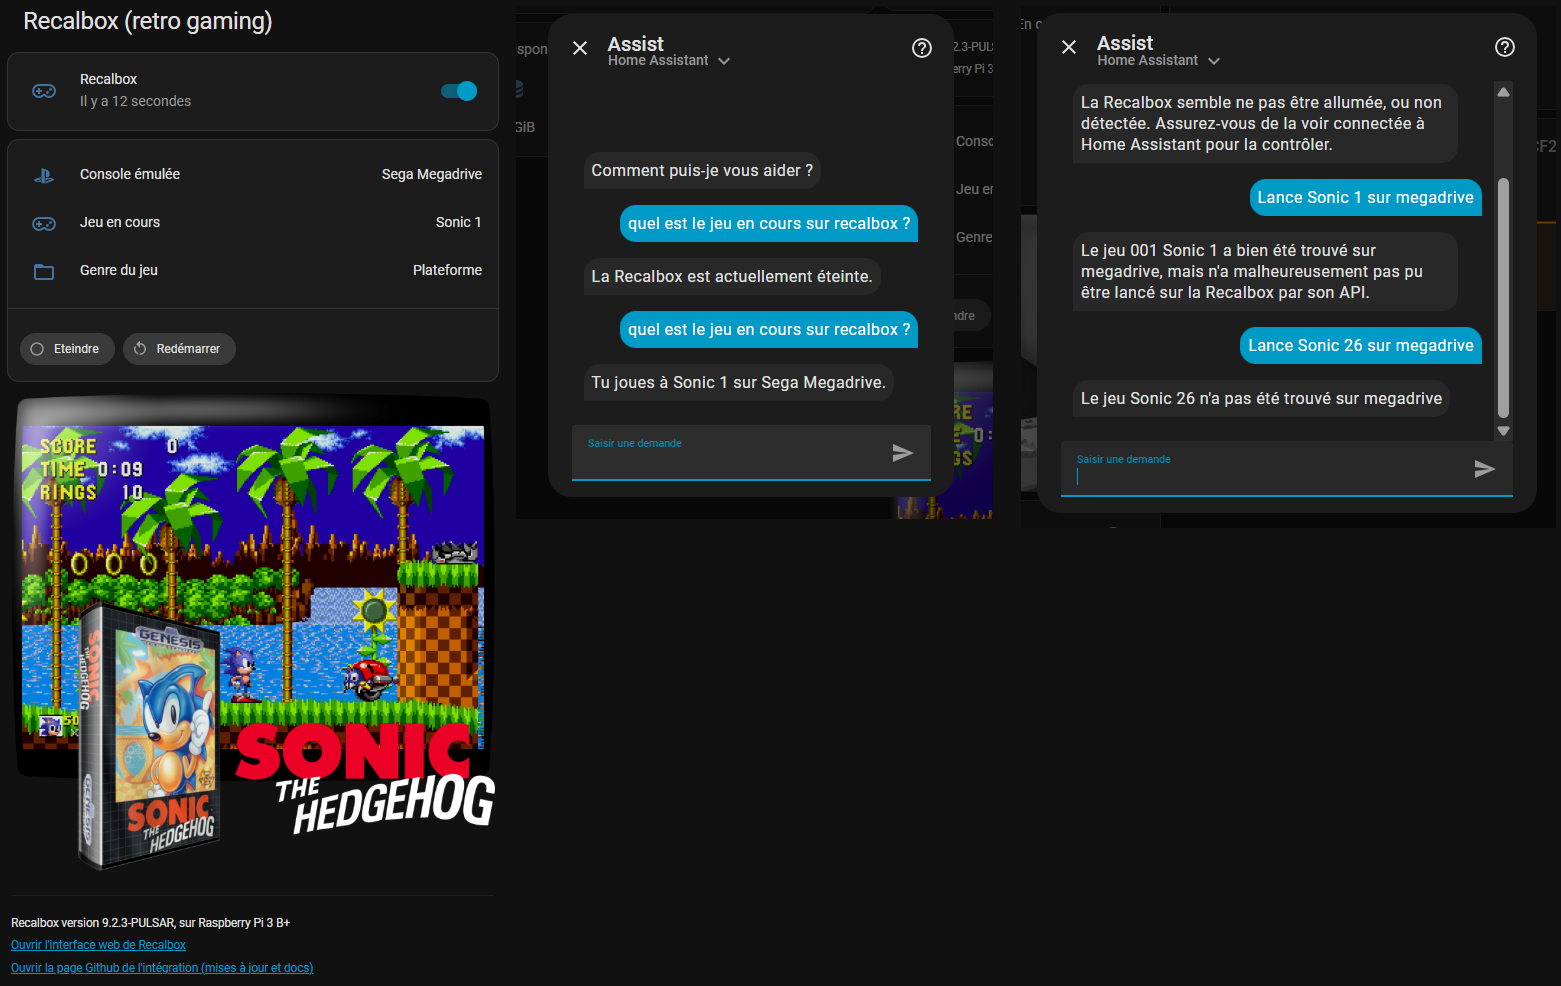
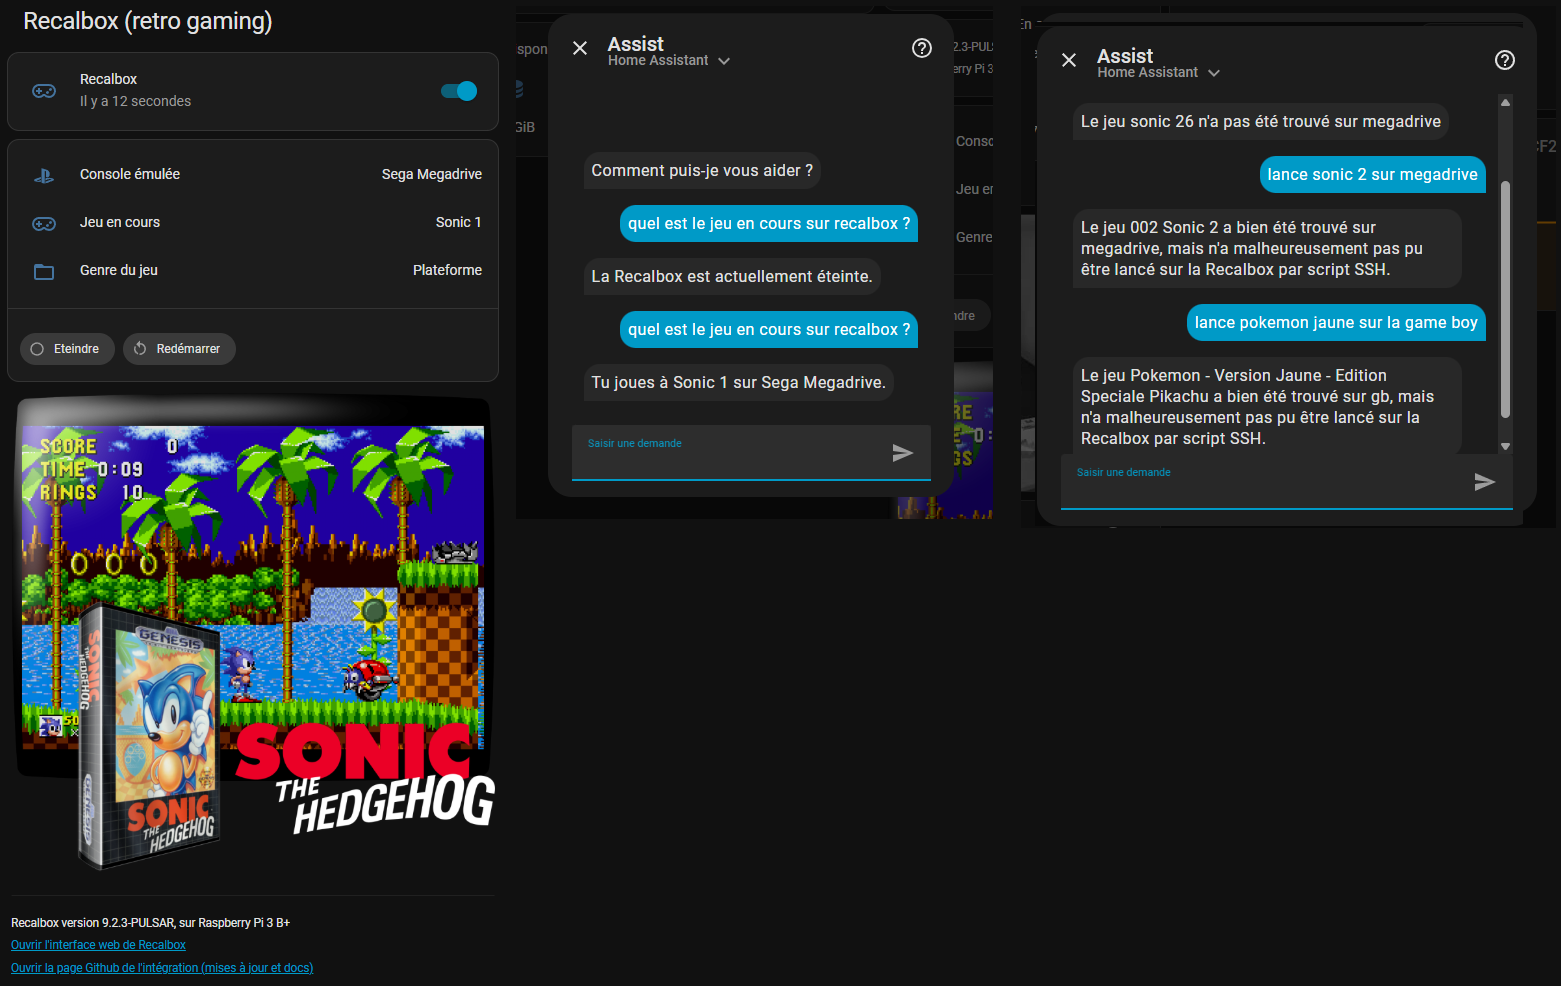
Update readme and examples pics

Changed region(s): [[0.6765, 0.0304, 0.9532, 0.5172], [0.9532, 0.0304, 0.984, 0.0609]]

diff --git a/README.md b/README.md
@@ -91,7 +91,7 @@ Assist integration for voice/text control has also been implemented in order to 
 Add a card to Home Assistant to display the Recalbox status, game info, picture, etc. 
 It will be refreshed in real time.
 
-You can use this card yaml [Home Assistant/dashboards/recalbox_card.yaml](Home%20Assistant/dashboards/recalbox_card.yaml), to get this example :
+You can use this [recalbox_card.yaml](Home%20Assistant/dashboards/recalbox_card.yaml) in your dashboard, to get this example :
 ![](example.png)
 
 
@@ -143,8 +143,9 @@ Example : "Eteins Recalbox" will turn off the Recalbox.
 
 ### Get current game with text/voice command
 
-- Create file `/config/custom_sentences/<language>/recalbox_intent.yaml`, with `RecalboxGameStatus` intent.
-Example in `custom_sentences/fr/recalbox_intent.yaml` :
+- If not yet done, create a file `/config/custom_sentences/<language>/recalbox_intent.yaml`, having a `RecalboxGameStatus` intent.
+
+  You can download the example [custom_sentences/fr/recalbox_intent.yaml](Home%20Assistant/custom_sentences/fr/recalbox_intent.yaml), that already contains this intent in French :
 
 ```yaml
 language: "fr"
@@ -176,7 +177,11 @@ intents:
 > - Verify in the terminal that the SSH connexion is good, without asking you the password anymore : "ssh -i /config/.ssh/recalboxHomeAssistantKey -o StrictHostKeyChecking=no root@recalbox.local"
 > - Type "exit"
 
-- Copy/get the intent RecalboxLaunchGame for game launch in `custom_sentences/fr/recalbox_intent.yaml` :
+
+- If not yet done, create a file `/config/custom_sentences/<language>/recalbox_intent.yaml`, having a `RecalboxLaunchGame` intent.
+
+  You can download the example [custom_sentences/fr/recalbox_intent.yaml](Home%20Assistant/custom_sentences/fr/recalbox_intent.yaml), that already contains this intent in French :
+  
 ```yaml
 language: "fr"
 intents:
@@ -189,7 +194,7 @@ intents:
           - "recalbox lance {game} sur [la] {console}"
 ```
 
-- Update the systems list in `/config/custom_sentences/fr/recalbox_intent.yaml` with the consoles you want to support in the launch command.
+- If needed, update the systems list in `/config/custom_sentences/fr/recalbox_intent.yaml` with the consoles you want to support/recognize in the launch command.
   By default, it supports launching command on NES, SNES, Megadrive, PSX, N64, GB, GBA, GBC, Dreamcast, PSP.
   
   The search ignores case, and can find roms with words in between your search.
